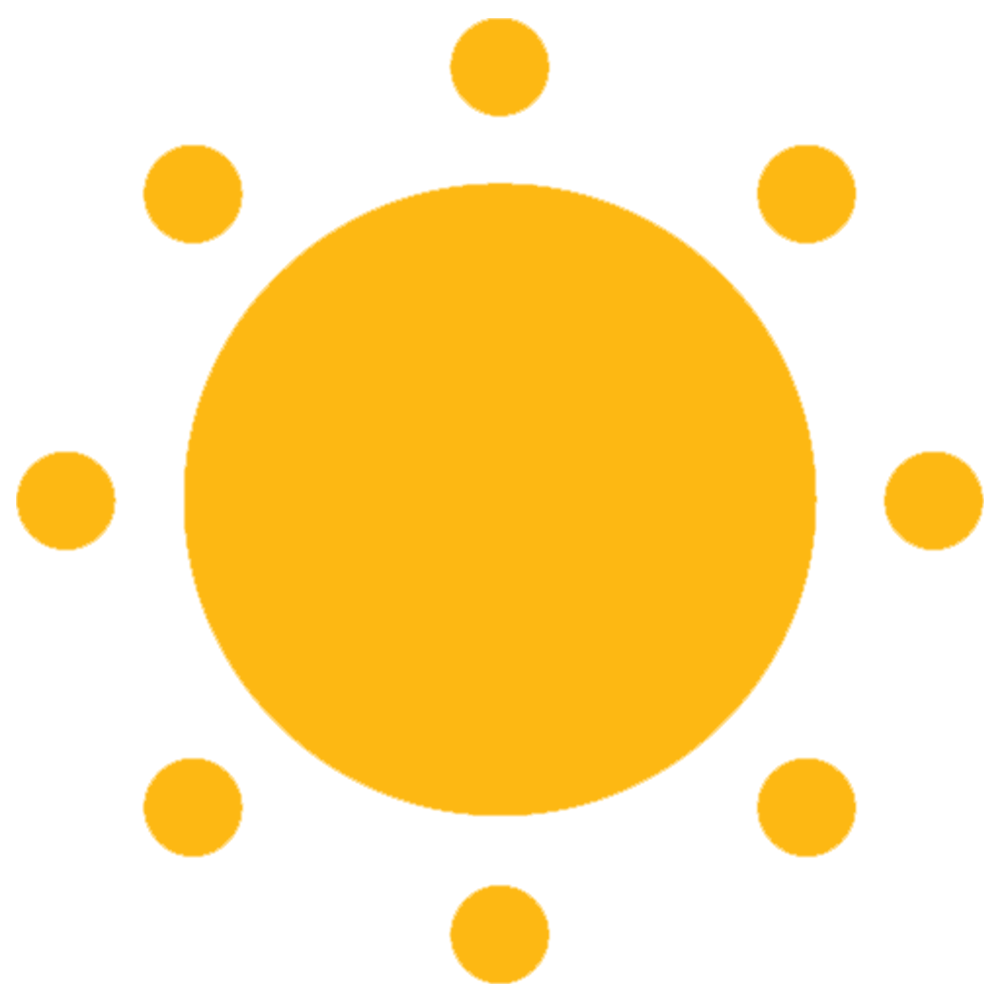
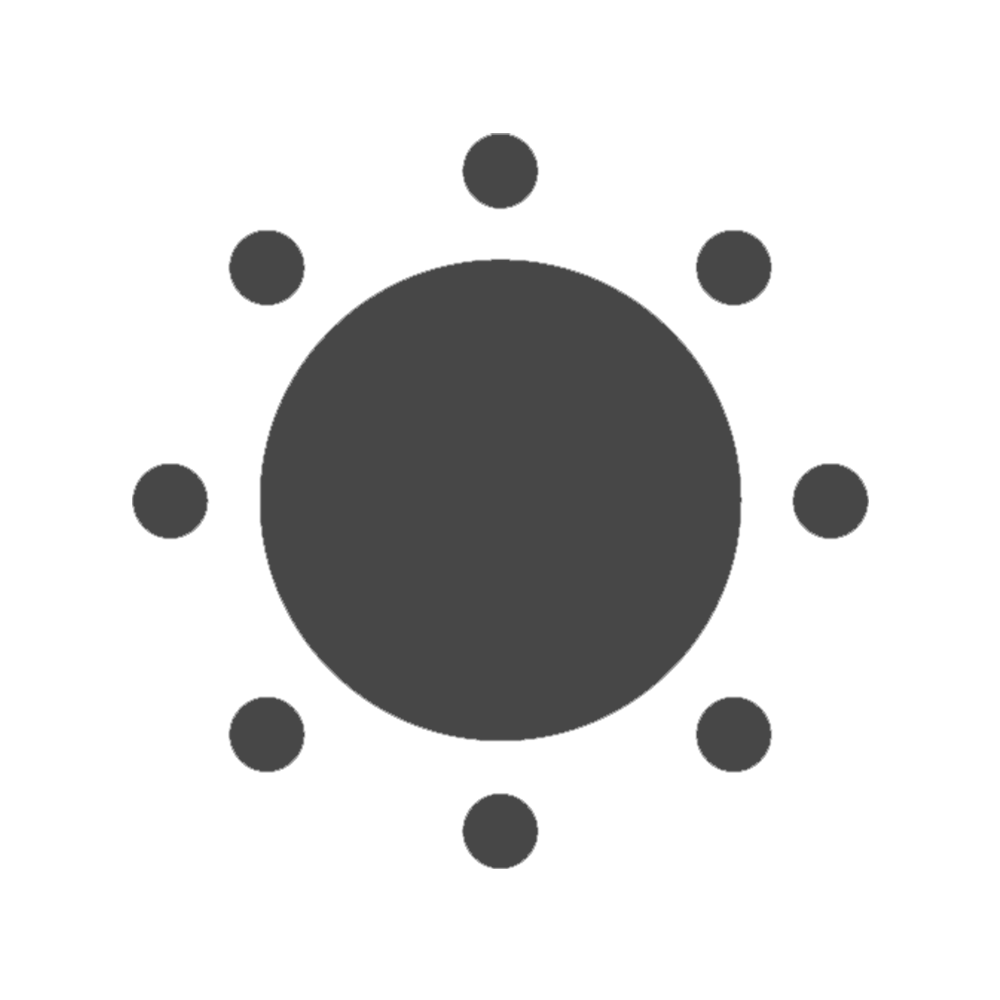
图标定了

diff --git a/index.html b/index.html
@@ -7,10 +7,10 @@
   <p>叶茂腾的前端实验室</p>
   <div class="exhibition">
     <a href="https://www.yemaoteng.tech/weather/index.html">
-      <div class="card weather"><img src="./weather1000.png"></div>
+      <div class="card weather"><img src="./sun1000.png"></div>
     </a>
     <a href="https://www.yemaoteng.com">
-        <div class="card blog"><img src="./horn1000.png"></div>    
+        <div class="card blog"><img src="./yhorn1000.png"></div>    
     </a>
   </div>
 
@@ -19,20 +19,30 @@
       box-sizing: border-box;
   }  
   .card {
-      width:400px;
-      height:400px;
+      width:300px;
+      height:300px;
       margin-left: auto;
       margin-right: auto;
+      padding:50px;
+      margin-top:40px;
+      margin-bottom: 40px;
+      border:2px solid grey;
+  }
+  img {
+      width:100%;
+      margin-left: auto;
+      margin-right: auto; 
   }
   .weather {
-      background-color: coral;
+      background-color: white;
   }
   .blog {
-      background-color:chartreuse;
+      background-color:white;
   }
 
   p {
       text-align: center;
+      font-size:xx-large;
   }
   
   </style>
